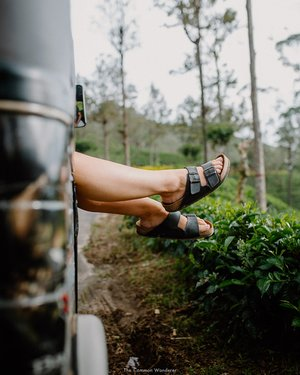
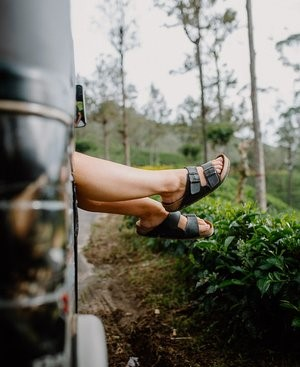
visit ella page completed

diff --git a/visit_ella.html b/visit_ella.html
@@ -14,12 +14,13 @@
   <link rel="stylesheet" href="https://fonts.googleapis.com/css2?family=Kanit">
   <link rel="stylesheet" href="https://fonts.googleapis.com/css2?family=Kite+One">
   <link rel="stylesheet" href="https://fonts.googleapis.com/css2?family=Julius+Sans+One">
+  <link rel="stylesheet" href="https://fonts.googleapis.com/css2?family=Raleway">
   <link rel="stylesheet" href="./style.css">
 </head>
 
 <body>
   <header class="fixed-top">
-    <div class="container-fluid text-white" style="background: #8B6A2E; width: 100%; height: auto;">
+    <div class="container-fluid text-white" style="background: #ce7216; width: 100%; height: auto;">
       <div class="row">
         <div class="col-md-8">
           Visit Ella Sri Lanka
@@ -124,7 +125,7 @@
             <a class="nav-link mx-3 text-dark" href="#">Camping</a>
             <a class="nav-link mx-3 text-dark" href="#">Hiking & Trekking</a>
             <a class="nav-link mx-3 text-dark" href="#">Visit Ella</a>
-            <button class="border-2 border-success rounded-pill">
+            <button class="border-2 border-warning rounded-pill">
               <a class="nav-link mx-3" href="#">Contact Us</a>
             </button>
           </div>
@@ -135,7 +136,7 @@
 
   </header>
 
-  <main>
+  <main style="background-color: rgb(52, 51, 51);">
 
     <div class="container-fluid p-0 pt-5"
       style="background-image: linear-gradient(rgba(0,0,0,0.2),rgba(0,0,0,0.2)),url('./img/ve_1.jpg'); height: auto; width: 100%; background-repeat: no-repeat; background-position: center; background-size: cover;">
@@ -158,14 +159,14 @@
         <i class="fa fa-map-marker" aria-hidden="true"></i>&nbsp;Nine Arch Bridge, Ella
       </div>
     </div>
-    <div class="container-fluid">
-      <div class="p-4" style="font-family: Kanit; font-size: 7vh;">VISIT ELLA SRI&nbsp;LANKA</div>
+    <div class="container-fluid text-white">
+      <div class="p-4" style="font-family: Raleway; font-size: 7vh;">VISIT ELLA SRI&nbsp;LANKA</div>
     </div>
-    <div class="container-fluid">
+    <div class="container-fluid text-white">
       <div class="row ps-4 pe-4">
         <div class="col-md-6 col-sm-12 d-flex justify-content-center align-items-center pb-4">
           <div class="col-md-6 col-sm-8"
-            style="background-image: linear-gradient(rgba(0,0,0,0.2),rgba(0,0,0,0.2)),url('./img/ve_2.jpg'); height: 40vw; width: 80%; background-repeat: no-repeat; background-position: center; background-size: cover; border-radius: 5px;">
+            style="background-image: linear-gradient(rgba(0,0,0,0),rgba(0,0,0,0)),url('./img/ve_2.jpg'); height: 40vw; width: 80%; background-repeat: no-repeat; background-position: center; background-size: cover; border-radius: 5px;">
 
           </div>
         </div>
@@ -202,16 +203,14 @@
         </div>
         <div style="padding: 6vw;"></div>
         <div class="d-flex justify-content-end p-5 pt-0">
-          <button
-            style="font-size: 2vh; color: white; background-color: black; border: 1px solid white; border-radius: 4px; height: 6vh; width: 18vh;">Contact
-            Us <i class="fa fa-caret-right" aria-hidden="true"></i></button>
+          <a class="btn" href="#">Contact&nbsp;Us <i class="fa fa-caret-right" aria-hidden="true"></i></a>
         </div>
         <div class="p-3" style="font-family: Kite One; color: white; font-size: 2vh;">
           Visit Ella, Sri&nbsp;Lanka
         </div>
       </div>
     </div>
-    <div class="container-fluid">
+    <div class="container-fluid gallery">
       <div class="row g-0 pt-5 pb-5">
         <div class="d-flex justify-content-end align-items-center pe-0 z-1 pt-5 pb-5"
           style="width: 50%; margin-left: 10vh;">
@@ -232,20 +231,157 @@
         </div>
         <div class="d-flex z-0 justify-content-start ps-0" style="width: 50%; margin-left: -15vh;">
           <div
-            style="margin-left: -10%; background-image: linear-gradient(rgba(0,0,0,0.2),rgba(0,0,0,0.2)),url('./img/ve_4.jpg'); height: 100%; width: 60vh; background-repeat: no-repeat; background-position: center; background-size: cover; border-radius: 5px;">
+            style="margin-left: -10%; background-image: url('./img/ve_5.jpg'); height: 100%; width: 60vh; background-repeat: no-repeat; background-position: center; background-size: cover; border-radius: 5px;">
           </div>
         </div>
       </div>
     </div>
-    <div class="container-fluid bg-black">
-      <div class="row g-0">
-        
+    <div class="container-fluid">
+      <p class="heading text-white">BEST PLACES TO VISIT</p>
+      <div class="gallery-image">
+        <div class="img-box">
+          <img src="./img/veg_3.jpg" alt="" />
+          <div class="transparent-box">
+            <div class="caption">
+              <p>Little Adam’s Peak</p>
+              <p class="opacity-low">Hiking area</p>
+            </div>
+          </div>
+        </div>
+        <div class="img-box">
+          <img src="./img/veg_1.jpg" alt="" />
+          <div class="transparent-box">
+            <div class="caption">
+              <p>Nine Arch</p>
+              <p class="opacity-low">Bridge</p>
+            </div>
+          </div>
+        </div>
+        <div class="img-box">
+          <img src="./img/veg_5.jpg" alt="" />
+          <div class="transparent-box">
+            <div class="caption">
+              <p>Ravana Ella Water Fall</p>
+              <p class="opacity-low">Tourist attraction</p>
+            </div>
+          </div>
+        </div>
+        <div class="img-box">
+          <img src="./img/veg_6.jpg" alt="" />
+          <div class="transparent-box">
+            <div class="caption">
+              <p>Diyaluma Water Fall</p>
+              <p class="opacity-low">Tourist attraction</p>
+            </div>
+          </div>
+        </div>
+        <div class="img-box">
+          <img src="./img/veg_4.jpg" alt="" />
+          <div class="transparent-box">
+            <div class="caption">
+              <p>Lipton's Seat</p>
+              <p class="opacity-low">Tourist attraction</p>
+            </div>
+          </div>
+        </div>
+        <div class="img-box">
+          <img src="./img/veg_2.jpg" alt="" />
+          <div class="transparent-box">
+            <div class="caption">
+              <p>Flying Ravana Mega Zipline</p>
+              <p class="opacity-low">Adventure sports centre</p>
+            </div>
+          </div>
+        </div>
       </div>
     </div>
   </main>
 
-  <footer>
+  <footer id="footer" class="footer-1">
+    <div class="main-footer widgets-dark typo-light">
+      <div class="container">
+        <div class="row">
 
+          <div class="col-xs-12 col-sm-6 col-md-3">
+            <div class="widget subscribe no-box">
+              <h5 class="widget-title">COMPANY NAME<span></span></h5>
+              <p>About the company, little discription will goes here.. </p>
+            </div>
+          </div>
+
+          <div class="col-xs-12 col-sm-6 col-md-3">
+            <div class="widget no-box">
+              <h5 class="widget-title">Quick Links<span></span></h5>
+              <ul class="thumbnail-widget">
+                <li>
+                  <div class="thumb-content"><a href="#.">Home</a></div>
+                </li>
+                <li>
+                  <div class="thumb-content"><a href="#.">DJ Party</a></div>
+                </li>
+                <li>
+                  <div class="thumb-content"><a href="#.">Rent Bike</a></div>
+                </li>
+                <li>
+                  <div class="thumb-content"><a href="#.">Camping</a></div>
+                </li>
+                <li>
+                  <div class="thumb-content"><a href="#.">Hiking & Trekking</a></div>
+                </li>
+                <li>
+                  <div class="thumb-content"><a href="#.">Visit Ella</a></div>
+                </li>
+                <li>
+                  <div class="thumb-content"><a href="#.">Contact Us</a></div>
+                </li>
+              </ul>
+            </div>
+          </div>
+
+          <div class="col-xs-12 col-sm-6 col-md-3">
+            <div class="widget no-box">
+              <h5 class="widget-title">Get Started<span></span></h5>
+              <p>Get started to arrange your vacation.</p>
+              <a class="btn" href="#">Book Now</a>
+            </div>
+          </div>
+
+          <div class="col-xs-12 col-sm-6 col-md-3">
+
+            <div class="widget no-box">
+              <h5 class="widget-title">Contact Us<span></span></h5>
+
+              <p><a href="mailto:info@domain.com" title="glorythemes">info@ellahikingbar.com</a></p>
+              <ul class="social-footer2">
+                <li class=""><a title="youtube" target="_blank" href="#"><img alt="youtube" width="30" height="30"
[1 lines of base64/hex data omitted]
+                </li>
+                <li class=""><a href="#" target="_blank" title="Facebook"><img alt="Facebook" width="30" height="30"
[1 lines of base64/hex data omitted]
+                </li>
+                <li class=""><a href="#" target="_blank" title="Twitter"><img alt="Twitter" width="30" height="30"
[1 lines of base64/hex data omitted]
+                </li>
+                <li class=""><a title="instagram" target="_blank" href="#"><img alt="instagram" width="30" height="30"
[1 lines of base64/hex data omitted]
+                </li>
+              </ul>
+            </div>
+          </div>
+
+        </div>
+      </div>
+    </div>
+
+    <div class="footer-copyright">
+      <div class="container">
+        <div class="row">
+          <div class="col-md-12 text-center">
+            <p>Ella Hiking Bar & Restaurant © 2024. All rights reserved.</p>
+          </div>
+        </div>
+      </div>
+    </div>
   </footer>
 
   <script src="https://cdn.jsdelivr.net/npm/bootstrap@5.3.2/dist/js/bootstrap.bundle.min.js"

diff --git a/style.css b/style.css
@@ -78,3 +78,165 @@
 
 
 /* -------------------------------------------------------------------------------------------------------------- */
+.galler{
+    font-family: Raleway;
+    /* background-color: #202125; */
+}
+
+.heading {
+    text-align: center;
+    font-size: 2.0em;
+    letter-spacing: 1px;
+    padding: 40px;
+    padding-bottom: 5px;
+    color: rgb(54, 53, 53);
+}
+
+.gallery-image {
+  padding: 20px;
+  padding-top: 0px;
+  display: flex;
+  flex-wrap: wrap;
+  justify-content: center;
+}
+
+.gallery-image img {
+  height: 250px;
+  width: 350px;
+  transform: scale(1.0);
+  transition: transform 0.4s ease;
+}
+
+.img-box {
+  box-sizing: content-box;
+  margin: 10px;
+  height: 250px;
+  width: 350px;
+  overflow: hidden;
+  display: inline-block;
+  color: white;
+  position: relative;
+  background-color: white;
+}
+
+.caption {
+  position: absolute;
+  bottom: 5px;
+  left: 20px;
+  opacity: 0.0;
+  transition: transform 0.3s ease, opacity 0.3s ease;
+}
+
+.transparent-box {
+  height: 250px;
+  width: 350px;
+  background-color:rgba(0, 0, 0, 0);
+  position: absolute;
+  top: 0;
+  left: 0;
+  transition: background-color 0.3s ease;
+}
+
+.img-box:hover img { 
+  transform: scale(1.1);
+}
+
+.img-box:hover .transparent-box {
+  background-color:rgba(0, 0, 0, 0.5);
+}
+
+.img-box:hover .caption {
+  transform: translateY(-20px);
+  opacity: 1.0;
+}
+
+.img-box:hover {
+  cursor: pointer;
+}
+
+.caption > p:nth-child(2) {
+  font-size: 0.8em;
+}
+
+.opacity-low {
+  opacity: 0.5;
+}
+
+/*==================== 
+	Footer 
+====================== */
+
+/* Main Footer */
+footer .main-footer{	padding: 20px 0;	background: #252525;}
+footer ul{	padding-left: 0;	list-style: none;}
+
+/* Copy Right Footer */
+.footer-copyright {	background: #222;	padding: 5px 0;}
+.footer-copyright .logo {    display: inherit;}
+.footer-copyright nav {    float: right;    margin-top: 5px;}
+.footer-copyright nav ul {	list-style: none;	margin: 0;	padding: 0;}
+.footer-copyright nav ul li {	border-left: 1px solid #505050;	display: inline-block;	line-height: 12px;	margin: 0;	padding: 0 8px;}
+.footer-copyright nav ul li a{	color: #969696;}
+.footer-copyright nav ul li:first-child {	border: medium none;	padding-left: 0;}
+.footer-copyright p {	color: #969696;	margin: 2px 0 0;}
+
+/* Footer Top */
+.footer-top{	background: #252525;	padding-bottom: 30px;	margin-bottom: 30px;	border-bottom: 3px solid #222;}
+
+/* Footer transparent */
+footer.transparent .footer-top, footer.transparent .main-footer{	background: transparent;}
+footer.transparent .footer-copyright{	background: none repeat scroll 0 0 rgba(0, 0, 0, 0.3) ;}
+
+/* Footer light */
+footer.light .footer-top{	background: #f9f9f9;}
+footer.light .main-footer{	background: #f9f9f9;}
+footer.light .footer-copyright{	background: none repeat scroll 0 0 rgba(255, 255, 255, 0.3) ;}
+
+/* Footer 4 */
+.footer- .logo {    display: inline-block;}
+
+/*==================== 
+	Widgets 
+====================== */
+.widget{	padding: 20px;	margin-bottom: 40px;}
+.widget.widget-last{	margin-bottom: 0px;}
+.widget.no-box{	padding: 0;	background-color: transparent;	margin-bottom: 40px;
+	box-shadow: none; -webkit-box-shadow: none; -moz-box-shadow: none; -ms-box-shadow: none; -o-box-shadow: none;}
+.widget.subscribe p{	margin-bottom: 18px;}
+.widget li a{	color: #ff8d1e;}
+.widget li a:hover{	color: #4b92dc;}
+.widget-title {margin-bottom: 20px;}
+.widget-title span {background: #839FAD none repeat scroll 0 0;display: block; height: 1px;margin-top: 25px;position: relative;width: 20%;}
+.widget-title span::after {background: inherit;content: "";height: inherit;    position: absolute;top: -4px;width: 50%;}
+.widget-title.text-center span,.widget-title.text-center span::after {margin-left: auto;margin-right:auto;left: 0;right: 0;}
+.widget .badge{	float: right;	background: #7f7f7f;}
+
+.typo-light h1, 
+.typo-light h2, 
+.typo-light h3, 
+.typo-light h4, 
+.typo-light h5, 
+.typo-light h6,
+.typo-light p,
+.typo-light div,
+.typo-light span,
+.typo-light small{	color: #fff;}
+
+ul.social-footer2 {	margin: 0;padding: 0;	width: auto;}
+ul.social-footer2 li {display: inline-block;padding: 0;}
+ul.social-footer2 li a:hover {background-color:#ff8d1e;}
+ul.social-footer2 li a {display: block;	height:30px;width: 30px;text-align: center;}
+.btn{background-color: #ff8d1e; color:#fff;}
+.btn:hover, .btn:focus, .btn.active {background: #ff8d1e;color: #fff !important;
+-webkit-box-shadow: 0 15px 30px rgba(0, 0, 0, 0.1);
+-moz-box-shadow: 0 15px 30px rgba(0, 0, 0, 0.1);
+-ms-box-shadow: 0 15px 30px rgba(0, 0, 0, 0.1);
+-o-box-shadow: 0 15px 30px rgba(0, 0, 0, 0.1);
+box-shadow: 0 15px 30px rgba(0, 0, 0, 0.1);
+-webkit-transition: all 250ms ease-in-out 0s;
+-moz-transition: all 250ms ease-in-out 0s;
+-ms-transition: all 250ms ease-in-out 0s;
+-o-transition: all 250ms ease-in-out 0s;
+transition: all 250ms ease-in-out 0s;
+
+}
